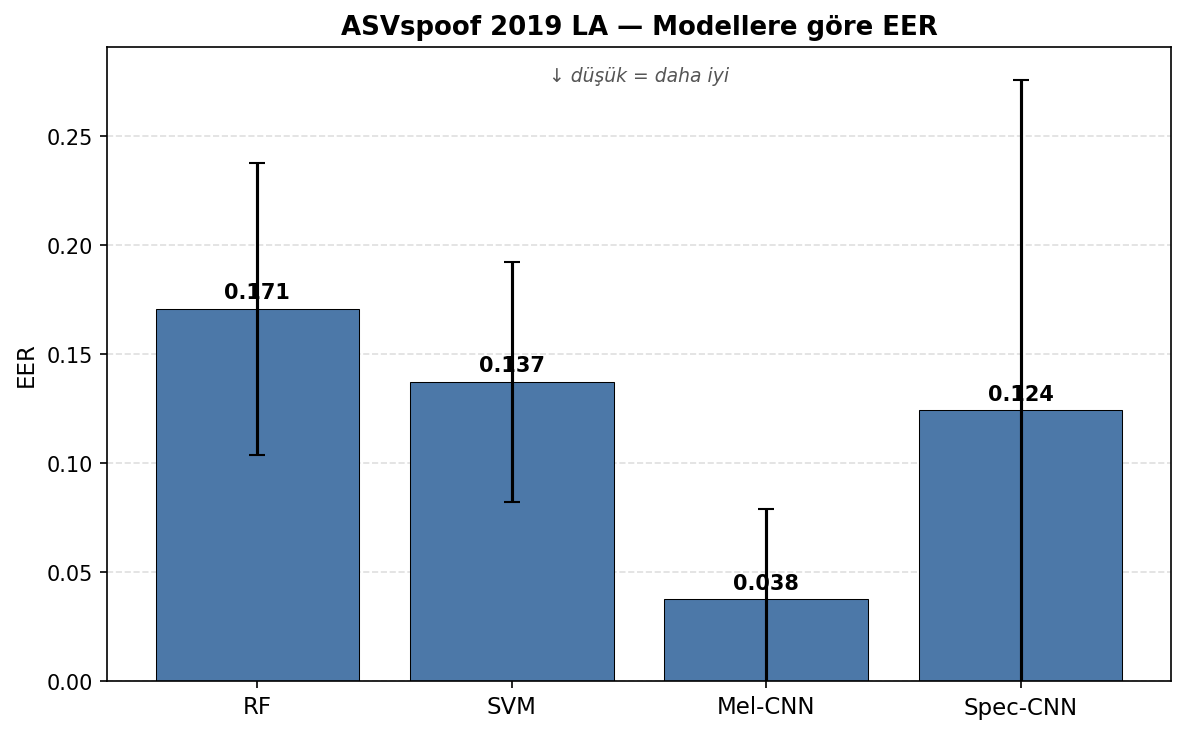
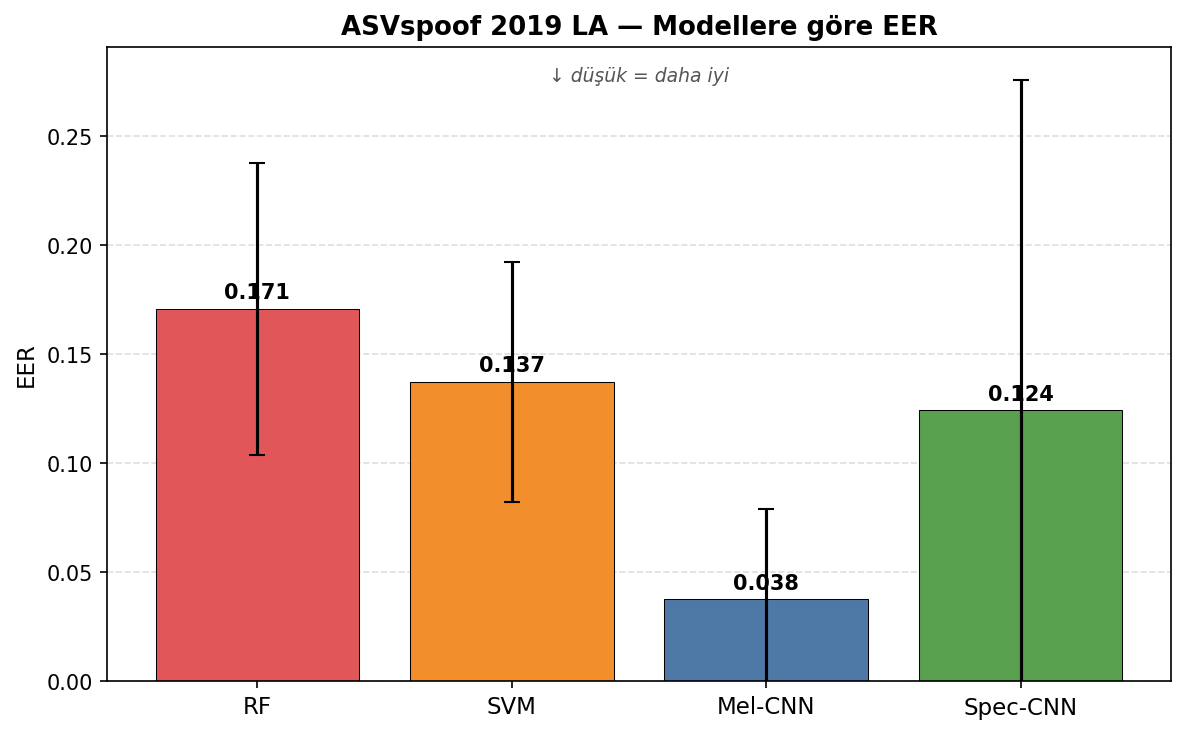
Sonuç grafiklerini çoğalt: ısı haritası, radar ve precision-recall ekle
tools/plot_results.py artık CSV'den 5 grafik üretir (EER, metrik karşılaştırma,
tüm-metrik ısı haritası, radar, precision-recall); README grafik tablosu güncellendi

Changed region(s): [[0.1249, 0.4196, 0.3122, 0.9292], [0.7494, 0.5395, 0.9679, 0.9292], [0.3435, 0.5095, 0.5308, 0.9292]]

diff --git a/tools/plot_results.py b/tools/plot_results.py
@@ -5,11 +5,14 @@
   Amaç:
     results/asvspoof_results.csv dosyasındaki dört modelin (RF, SVM, CNN-Mel,
     CNN-Spec) saldırı-gruplu 5 katlı çapraz doğrulama (görülmemiş saldırı)
-    sonuçlarını görselleştirir.
+    sonuçlarını birden çok açıdan görselleştirir.
 
-  Üretilen Çıktılar:
-    1. figures/asvspoof_eer.png      — EER (5 kat ortalaması ± std; düşük = daha iyi)
-    2. figures/asvspoof_metrics.png  — Dengeli doğruluk / F1 / AUC (yüksek = daha iyi)
+  Üretilen Çıktılar (figures/):
+    1. asvspoof_eer.png              — EER (5 kat ort. ± std; düşük = daha iyi)
+    2. asvspoof_metrics.png          — Dengeli doğruluk / F1 / AUC (yüksek = daha iyi)
+    3. asvspoof_all_metrics.png      — Tüm metriklerin model × metrik ısı haritası
+    4. asvspoof_radar.png            — Modellerin metrik radar (örümcek) karşılaştırması
+    5. asvspoof_precision_recall.png — Precision–Recall dengesi (model başına)
 
   Not: Sınıf dengesizliği (~1:9) nedeniyle düz doğruluk yanıltıcıdır; bu yüzden
   birincil metrikler EER, dengeli doğruluk ve AUC'dur.
@@ -29,7 +32,7 @@ os.makedirs(FIGURES_DIR, exist_ok=True)
 
 METHODS = ["RF", "SVM", "Mel-CNN", "Spec-CNN"]
 PROTOCOL = "attack_kfold"
-BAR_COLOR = "#4c78a8"
+MODEL_COLORS = {"RF": "#e15759", "SVM": "#f28e2b", "Mel-CNN": "#4e79a7", "Spec-CNN": "#59a14f"}
 
 
 def load_results():
@@ -48,71 +51,138 @@ def load_results():
     return data
 
 
+def _save(fig, name):
+    p = os.path.join(FIGURES_DIR, name)
+    fig.tight_layout()
+    fig.savefig(p, dpi=150, bbox_inches="tight")
+    plt.close(fig)
+    print(f"  ✔ {name}")
+
+
+# ─────────────────────────────────────────────
+# 1) EER (± std)
+# ─────────────────────────────────────────────
 def plot_eer(data):
     vals = [data[m]["EER"] for m in METHODS]
     errs = [data[m]["EER_std"] or 0.0 for m in METHODS]
-
     fig, ax = plt.subplots(figsize=(8, 5))
     x = np.arange(len(METHODS))
-    bars = ax.bar(x, vals, yerr=errs, capsize=4, color=BAR_COLOR,
+    bars = ax.bar(x, vals, yerr=errs, capsize=4,
+                  color=[MODEL_COLORS[m] for m in METHODS],
                   edgecolor="black", linewidth=0.5)
     for b, v in zip(bars, vals):
         ax.annotate(f"{v:.3f}", (b.get_x() + b.get_width() / 2, v),
                     xytext=(0, 3), textcoords="offset points",
                     ha="center", va="bottom", fontsize=10, fontweight="bold")
-
-    ax.set_xticks(x)
-    ax.set_xticklabels(METHODS, fontsize=11)
-    ax.set_ylabel("EER", fontsize=11)
-    ax.set_ylim(bottom=0)
-    ax.set_title("ASVspoof 2019 LA — Modellere göre EER",
-                 fontsize=12.5, fontweight="bold")
-    ax.grid(axis="y", linestyle="--", alpha=0.4)
-    ax.set_axisbelow(True)
+    ax.set_xticks(x); ax.set_xticklabels(METHODS, fontsize=11)
+    ax.set_ylabel("EER", fontsize=11); ax.set_ylim(bottom=0)
+    ax.set_title("ASVspoof 2019 LA — Modellere göre EER", fontsize=12.5, fontweight="bold")
+    ax.grid(axis="y", linestyle="--", alpha=0.4); ax.set_axisbelow(True)
     ax.text(0.5, 0.97, "↓ düşük = daha iyi", transform=ax.transAxes,
             ha="center", va="top", fontsize=9, style="italic", color="#555")
-
-    p = os.path.join(FIGURES_DIR, "asvspoof_eer.png")
-    plt.tight_layout()
-    plt.savefig(p, dpi=150, bbox_inches="tight")
-    plt.close(fig)
-    print("  ✔ asvspoof_eer.png")
+    _save(fig, "asvspoof_eer.png")
 
 
+# ─────────────────────────────────────────────
+# 2) BalACC / F1 / AUC
+# ─────────────────────────────────────────────
 def plot_metrics(data):
     metrics = [("BalACC", "Dengeli doğruluk"), ("F1", "F1"), ("AUC", "AUC")]
     colors = ["#4c78a8", "#f58518", "#54a24b"]
-    x = np.arange(len(METHODS))
-    width = 0.26
-
+    x = np.arange(len(METHODS)); width = 0.26
     fig, ax = plt.subplots(figsize=(9, 5))
     for i, (key, label) in enumerate(metrics):
         vals = [data[m][key] for m in METHODS]
-        offset = (i - 1) * width
-        bars = ax.bar(x + offset, vals, width, label=label, color=colors[i],
+        bars = ax.bar(x + (i - 1) * width, vals, width, label=label, color=colors[i],
                       edgecolor="black", linewidth=0.4)
         for b, v in zip(bars, vals):
             ax.annotate(f"{v:.2f}", (b.get_x() + b.get_width() / 2, v),
                         xytext=(0, 2), textcoords="offset points",
                         ha="center", va="bottom", fontsize=8)
-
-    ax.set_xticks(x)
-    ax.set_xticklabels(METHODS, fontsize=11)
-    ax.set_ylabel("Skor", fontsize=11)
-    ax.set_ylim(0, 1.05)
-    ax.set_title("ASVspoof 2019 LA — Dengeli doğruluk / F1 / AUC",
-                 fontsize=12.5, fontweight="bold")
+    ax.set_xticks(x); ax.set_xticklabels(METHODS, fontsize=11)
+    ax.set_ylabel("Skor", fontsize=11); ax.set_ylim(0, 1.05)
+    ax.set_title("ASVspoof 2019 LA — Dengeli doğruluk / F1 / AUC", fontsize=12.5, fontweight="bold")
     ax.legend(fontsize=9, framealpha=0.9, loc="lower right")
-    ax.grid(axis="y", linestyle="--", alpha=0.4)
-    ax.set_axisbelow(True)
+    ax.grid(axis="y", linestyle="--", alpha=0.4); ax.set_axisbelow(True)
     ax.text(0.01, 0.97, "↑ yüksek = daha iyi", transform=ax.transAxes,
             ha="left", va="top", fontsize=9, style="italic", color="#555")
+    _save(fig, "asvspoof_metrics.png")
 
-    p = os.path.join(FIGURES_DIR, "asvspoof_metrics.png")
-    plt.tight_layout()
-    plt.savefig(p, dpi=150, bbox_inches="tight")
-    plt.close(fig)
-    print("  ✔ asvspoof_metrics.png")
+
+# ─────────────────────────────────────────────
+# 3) Tüm metrikler — ısı haritası
+# ─────────────────────────────────────────────
+def plot_all_metrics(data):
+    rows = [("ACC", "Accuracy"), ("BalACC", "Dengeli doğr."), ("Precision", "Precision"),
+            ("Recall", "Recall"), ("F1", "F1"), ("AUC", "AUC")]
+    M = np.array([[data[m][k] for m in METHODS] for k, _ in rows])
+    fig, ax = plt.subplots(figsize=(8, 5.5))
+    im = ax.imshow(M, cmap="YlGnBu", vmin=0.0, vmax=1.0, aspect="auto")
+    ax.set_xticks(range(len(METHODS))); ax.set_xticklabels(METHODS, fontsize=11)
+    ax.set_yticks(range(len(rows))); ax.set_yticklabels([lbl for _, lbl in rows], fontsize=11)
+    for i in range(len(rows)):
+        for j in range(len(METHODS)):
+            v = M[i, j]
+            ax.text(j, i, f"{v:.3f}", ha="center", va="center", fontsize=10,
+                    color="white" if v > 0.6 else "black", fontweight="bold")
+    ax.set_title("ASVspoof 2019 LA — Tüm metrikler (yüksek = daha iyi)",
+                 fontsize=12.5, fontweight="bold")
+    cbar = fig.colorbar(im, ax=ax, fraction=0.046, pad=0.04)
+    cbar.set_label("Skor", fontsize=10)
+    _save(fig, "asvspoof_all_metrics.png")
+
+
+# ─────────────────────────────────────────────
+# 4) Radar (örümcek) karşılaştırma
+# ─────────────────────────────────────────────
+def plot_radar(data):
+    axes_keys = [("BalACC", "Dengeli\ndoğruluk"), ("Precision", "Precision"),
+                 ("Recall", "Recall"), ("F1", "F1"), ("AUC", "AUC")]
+    labels = [lbl for _, lbl in axes_keys]
+    N = len(axes_keys)
+    angles = np.linspace(0, 2 * np.pi, N, endpoint=False).tolist()
+    angles += angles[:1]
+
+    fig, ax = plt.subplots(figsize=(7, 7), subplot_kw=dict(polar=True))
+    for m in METHODS:
+        vals = [data[m][k] for k, _ in axes_keys]
+        vals += vals[:1]
+        ax.plot(angles, vals, lw=2, label=m, color=MODEL_COLORS[m])
+        ax.fill(angles, vals, alpha=0.08, color=MODEL_COLORS[m])
+    ax.set_xticks(angles[:-1]); ax.set_xticklabels(labels, fontsize=10)
+    ax.set_ylim(0, 1.0)
+    ax.set_yticks([0.2, 0.4, 0.6, 0.8, 1.0])
+    ax.set_yticklabels(["0.2", "0.4", "0.6", "0.8", "1.0"], fontsize=8, color="#777")
+    ax.set_title("ASVspoof 2019 LA — Model karşılaştırması (radar)\n(dışa doğru = daha iyi)",
+                 fontsize=12.5, fontweight="bold", pad=24)
+    ax.legend(loc="upper right", bbox_to_anchor=(1.18, 1.10), fontsize=9)
+    _save(fig, "asvspoof_radar.png")
+
+
+# ─────────────────────────────────────────────
+# 5) Precision–Recall dengesi
+# ─────────────────────────────────────────────
+def plot_precision_recall(data):
+    x = np.arange(len(METHODS)); width = 0.38
+    fig, ax = plt.subplots(figsize=(9, 5))
+    prec = [data[m]["Precision"] for m in METHODS]
+    rec = [data[m]["Recall"] for m in METHODS]
+    b1 = ax.bar(x - width / 2, prec, width, label="Precision", color="#76b7b2",
+                edgecolor="black", linewidth=0.4)
+    b2 = ax.bar(x + width / 2, rec, width, label="Recall", color="#edc948",
+                edgecolor="black", linewidth=0.4)
+    for bars in (b1, b2):
+        for b in bars:
+            ax.annotate(f"{b.get_height():.2f}", (b.get_x() + b.get_width() / 2, b.get_height()),
+                        xytext=(0, 2), textcoords="offset points",
+                        ha="center", va="bottom", fontsize=8)
+    ax.set_xticks(x); ax.set_xticklabels(METHODS, fontsize=11)
+    ax.set_ylabel("Skor", fontsize=11); ax.set_ylim(0, 1.05)
+    ax.set_title("ASVspoof 2019 LA — Precision–Recall dengesi (bonafide sınıfı)",
+                 fontsize=12.5, fontweight="bold")
+    ax.legend(fontsize=9, framealpha=0.9, loc="lower right")
+    ax.grid(axis="y", linestyle="--", alpha=0.4); ax.set_axisbelow(True)
+    _save(fig, "asvspoof_precision_recall.png")
 
 
 def main():
@@ -120,6 +190,9 @@ def main():
     print("Sonuç grafikleri üretiliyor:")
     plot_eer(data)
     plot_metrics(data)
+    plot_all_metrics(data)
+    plot_radar(data)
+    plot_precision_recall(data)
     print("Tamamlandı.")
 
 

diff --git a/README.md b/README.md
@@ -42,6 +42,9 @@ verir. Tüm metrikler (Accuracy, Precision, Recall, F1) için:
 |---|---|
 | ![EER](figures/asvspoof_eer.png) | Modellere göre EER (düşük = daha iyi) |
 | ![Metrikler](figures/asvspoof_metrics.png) | Dengeli doğruluk / F1 / AUC (yüksek = daha iyi) |
+| ![Tüm metrikler](figures/asvspoof_all_metrics.png) | Tüm metriklerin model × metrik ısı haritası |
+| ![Radar](figures/asvspoof_radar.png) | Modellerin metrik radar karşılaştırması |
+| ![Precision-Recall](figures/asvspoof_precision_recall.png) | Precision–Recall dengesi (bonafide sınıfı) |
 
 ```bash
 python tools/plot_results.py
